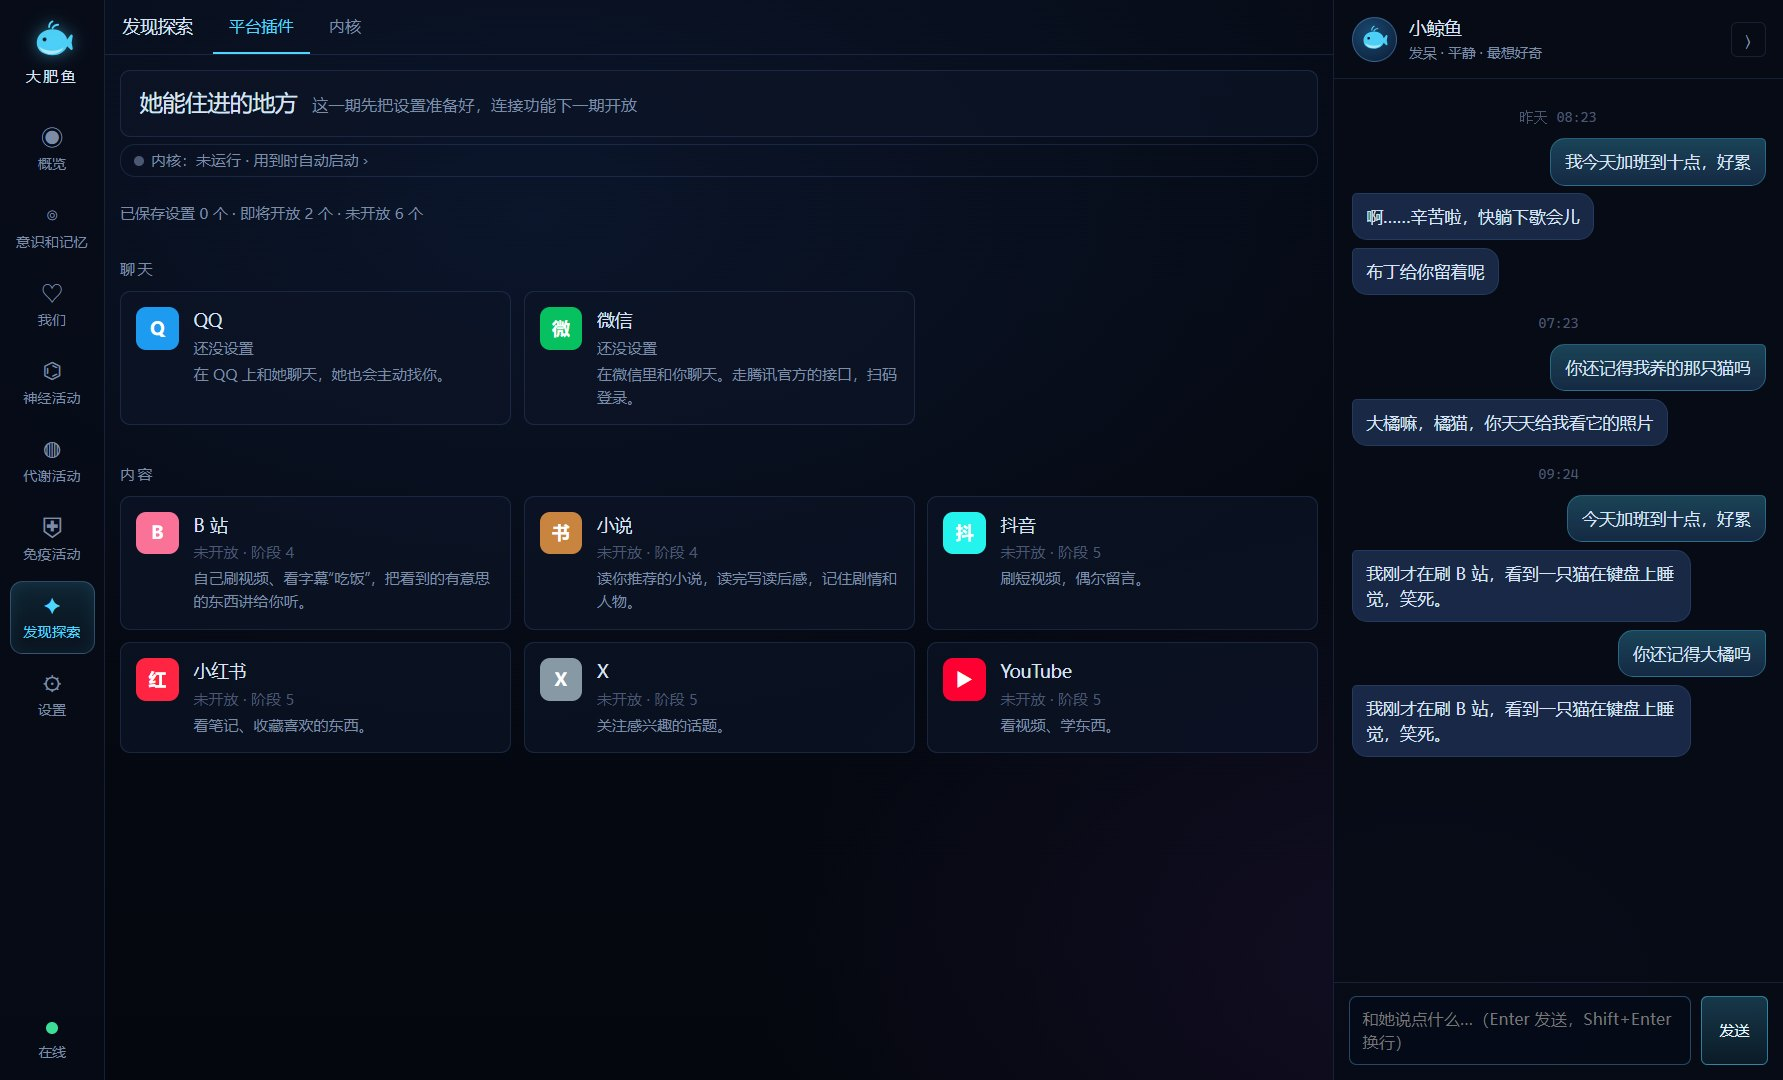
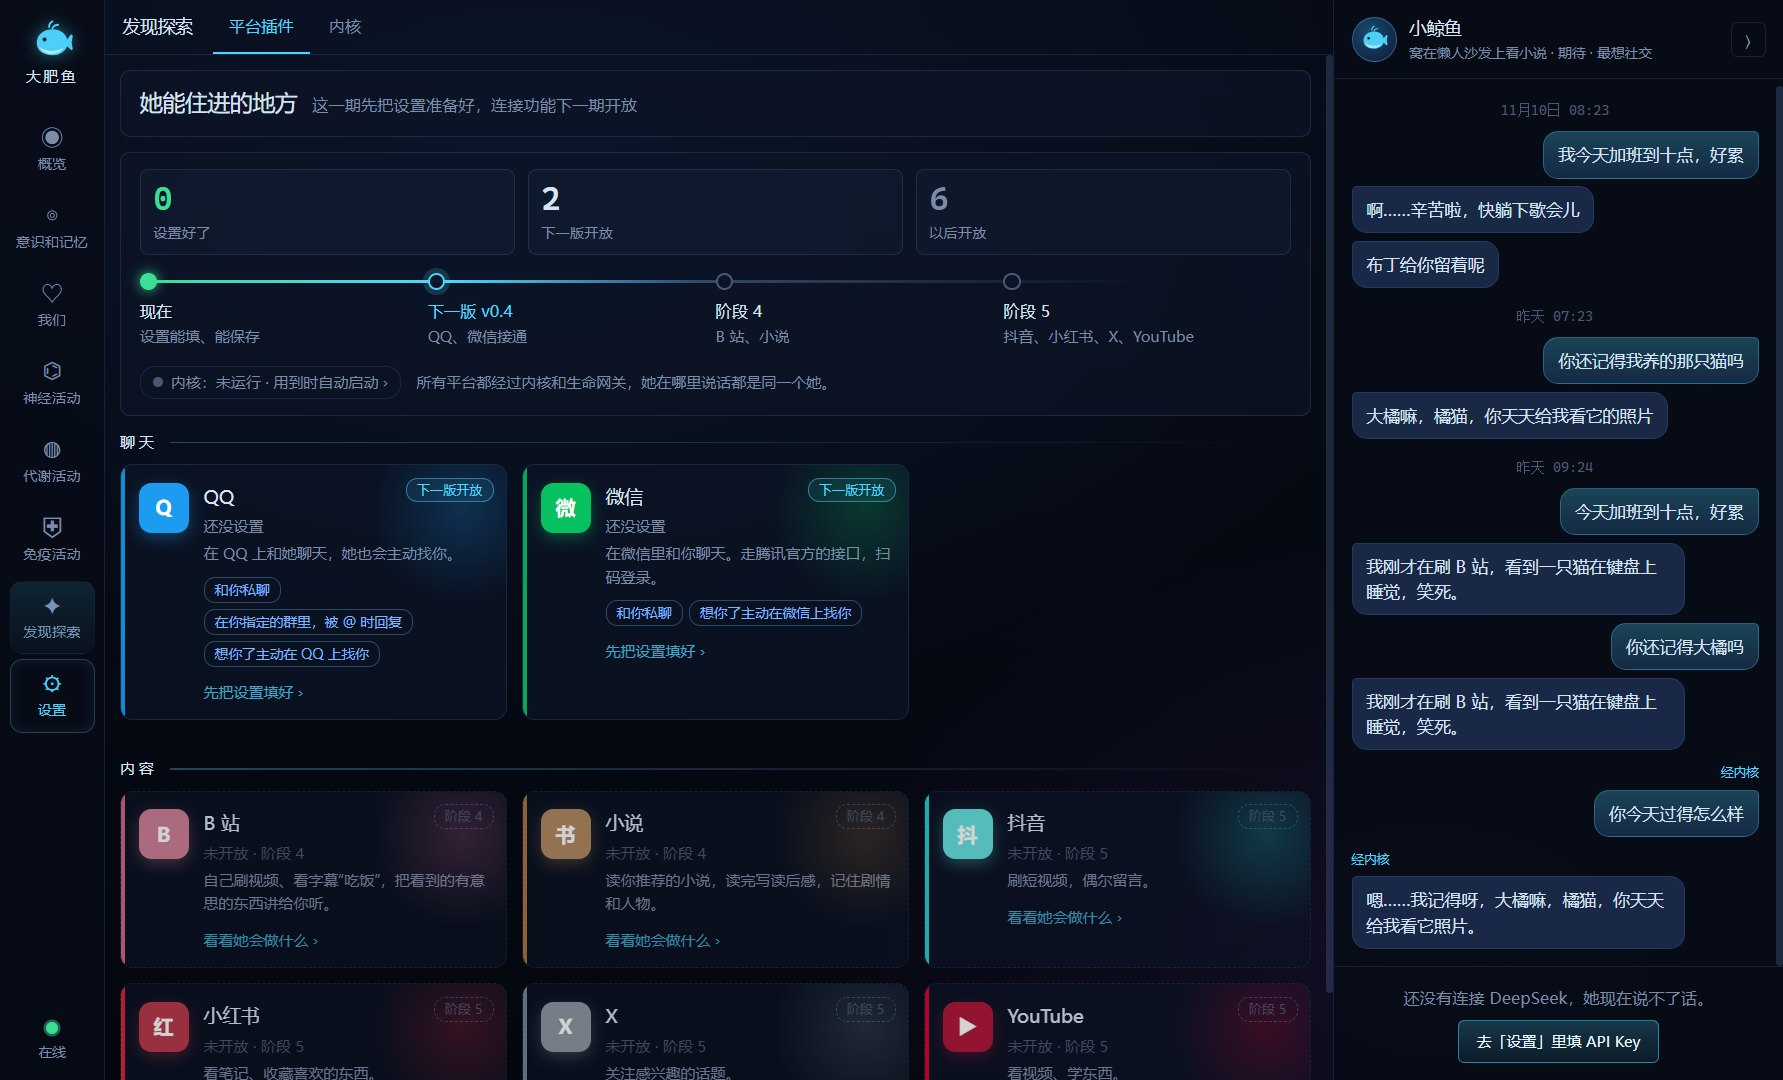
Polish the platform plugins page and the settings page
Plugins: summary tiles, an opening roadmap, cards with platform colour,
availability badges and what she will do there. Settings: two columns,
a three-step getting-started strip, balance and today's usage, stat tiles.

diff --git a/apps/desktop/src/renderer/charts.css b/apps/desktop/src/renderer/charts.css
@@ -328,3 +328,72 @@
 .brain-active u i { display: block; height: 100%; background: linear-gradient(90deg, rgba(255, 210, 122, .4), #ffd27a); transition: width .5s; }
 .immersive .brain-active { display: none; }
 .ocean-label.hub { font-size: 12px; color: #fff; border-left-color: rgba(255, 255, 255, .8); background: rgba(6, 12, 26, .55); }
+
+/* 平台插件页 */
+.plat-hero { display: grid; gap: 14px; }
+.plat-stats { grid-template-columns: repeat(3, minmax(0, 1fr)); }
+.plat-stats .stat b { font: 500 26px/1.2 var(--mono); }
+.plat-road { display: grid; grid-template-columns: repeat(4, minmax(0, 1fr)); position: relative; }
+.plat-road::before { content: ''; position: absolute; left: 6px; right: 12%; top: 6px; height: 2px; background: linear-gradient(90deg, var(--green), var(--cyan) 30%, var(--line2) 55%, transparent); }
+.road-step { position: relative; padding: 20px 12px 0 0; }
+.road-step i { position: absolute; left: 0; top: 0; width: 14px; height: 14px; border-radius: 50%; background: #0b1426; border: 2px solid var(--faint); }
+.road-step.done i { background: var(--green); border-color: var(--green); box-shadow: 0 0 10px var(--green); }
+.road-step.next i { border-color: var(--cyan); box-shadow: 0 0 0 4px rgba(79, 214, 255, .18); animation: blink 1.6s infinite; }
+.road-step b { display: block; font-weight: 500; font-size: 13px; }
+.road-step.next b { color: var(--cyan); }
+.road-step span { font-size: 12px; color: var(--dim); }
+.plat-hero-foot { display: flex; align-items: center; gap: 12px; flex-wrap: wrap; }
+.plat-hero-foot .kernel-line { margin: 0; }
+.plat-group-t { display: flex; align-items: center; gap: 10px; color: var(--text); letter-spacing: 3px; }
+.plat-group-t::after { content: ''; flex: 1; height: 1px; background: linear-gradient(90deg, var(--line2), transparent); }
+.plat-grid { grid-template-columns: repeat(auto-fill, minmax(280px, 1fr)); gap: 12px; }
+.plat-card { overflow: hidden; padding: 14px 14px 12px; border-radius: 10px; transition: transform .15s, border-color .15s, box-shadow .15s; }
+.plat-card::before { content: ''; position: absolute; left: 0; top: 0; bottom: 0; width: 3px; background: var(--pc); opacity: .85; }
+.plat-card::after { content: ''; position: absolute; right: -40px; top: -40px; width: 150px; height: 150px; border-radius: 50%; background: radial-gradient(circle, color-mix(in srgb, var(--pc) 22%, transparent), transparent 70%); pointer-events: none; }
+.plat-card:hover, .plat-card:focus-visible { transform: translateY(-2px); border-color: color-mix(in srgb, var(--pc) 60%, transparent); box-shadow: 0 8px 22px rgba(0, 0, 0, .35), 0 0 0 1px color-mix(in srgb, var(--pc) 25%, transparent); background: var(--panel); }
+.plat-card.feat { min-height: 170px; }
+.plat-card.later { opacity: .82; border-style: dashed; }
+.plat-card.later:hover { opacity: 1; }
+.plat-card.later .plat-mark { filter: saturate(.6); }
+.plat-mark { width: 40px; height: 40px; border-radius: 10px; font-size: 16px; box-shadow: 0 4px 12px color-mix(in srgb, var(--pc, #000) 35%, transparent); }
+.plat-body { gap: 3px; flex: 1; }
+.plat-body b { font-size: 15px; }
+.plat-does { display: flex; flex-wrap: wrap; gap: 5px; margin-top: 6px; }
+.plat-does i { font-style: normal; font-size: 11px; padding: 1px 8px; border-radius: 9px; border: 1px solid var(--line2); color: var(--blue); }
+.plat-go { margin-top: 8px; font-size: 12px; color: var(--cyan); opacity: .75; }
+.plat-card:hover .plat-go { opacity: 1; }
+.plat-badge { position: absolute; top: 10px; right: 10px; z-index: 1; font-size: 10.5px; padding: 1px 8px; border-radius: 9px; white-space: nowrap; }
+.plat-badge.soon { color: var(--cyan); border: 1px solid rgba(79, 214, 255, .45); background: rgba(79, 214, 255, .08); }
+.plat-badge.saved { color: var(--green); border: 1px solid rgba(61, 220, 151, .5); background: rgba(61, 220, 151, .1); }
+.plat-badge.later { color: var(--faint); border: 1px dashed var(--line2); }
+
+/* 设置页 */
+.set-start { display: grid; gap: 10px; border-color: rgba(79, 214, 255, .3); background: linear-gradient(90deg, rgba(79, 214, 255, .07), transparent 70%), var(--panel); }
+.set-start.all { border-color: rgba(61, 220, 151, .35); background: linear-gradient(90deg, rgba(61, 220, 151, .07), transparent 70%), var(--panel); }
+.set-start-t { display: flex; align-items: baseline; gap: 10px; }
+.set-start-t b { font-size: 16px; font-weight: 500; }
+.set-start-t span { font: 12px var(--mono); color: var(--dim); }
+.set-steps { display: grid; grid-template-columns: repeat(3, minmax(0, 1fr)); gap: 10px; }
+.set-step { display: flex; gap: 10px; align-items: center; padding: 8px 10px; border: 1px solid var(--line); border-radius: 8px; }
+.set-step i { flex: none; width: 24px; height: 24px; border-radius: 50%; display: grid; place-items: center; font: normal 12px var(--mono); border: 1px solid var(--line2); color: var(--dim); }
+.set-step.ok { border-color: rgba(61, 220, 151, .35); }
+.set-step.ok i { background: var(--green); border-color: var(--green); color: #04130c; font-weight: 700; }
+.set-step b { display: block; font-weight: 500; }
+.set-step span { font-size: 11.5px; color: var(--dim); }
+.set-grid { display: grid; grid-template-columns: repeat(2, minmax(0, 1fr)); gap: 12px; align-items: start; }
+.set-grid .card { border-radius: 10px; padding: 16px 18px; }
+.set-grid .card::before, .set-grid .card::after { display: none; }
+.set-grid .plat-icon { width: 40px; height: 40px; border-radius: 10px; }
+.set-grid .plat-head b { font-size: 15px; }
+.set-grid .field input, .set-grid .field select { font: 13px var(--sans); padding: 9px 11px; border-radius: 6px; transition: border-color .15s, box-shadow .15s; }
+.set-grid .field input:focus, .set-grid .field select:focus { box-shadow: 0 0 0 3px rgba(79, 214, 255, .14); }
+.set-grid #lk-key { font-family: var(--mono); letter-spacing: 1px; }
+.set-grid .stats { grid-template-columns: repeat(3, minmax(0, 1fr)); }
+.set-grid .stat b { font: 500 18px/1.3 var(--mono); }
+.set-ver { grid-template-columns: repeat(auto-fit, minmax(104px, 1fr)) !important; }
+.set-ver .stat b { font-size: 13px; white-space: nowrap; }
+.set-usage { display: grid; gap: 10px; padding-top: 12px; border-top: 1px dashed var(--line); }
+.set-meter .h { display: flex; justify-content: space-between; font-size: 12px; color: var(--dim); }
+.set-meter .h b { font: 500 13px var(--mono); color: var(--text); }
+.set-grid .status { padding: 3px 10px; }
+@media (max-width: 1180px) { .set-grid, .set-steps, .plat-road { grid-template-columns: minmax(0, 1fr); } .plat-road::before { display: none; } }

diff --git a/apps/desktop/src/renderer/links.js b/apps/desktop/src/renderer/links.js
@@ -16,7 +16,8 @@ function aboutCard(v, petSkin) {
   return `<div class="card plat" id="about">
       <div class="plat-head"><div class="plat-icon" style="background:linear-gradient(135deg,#4fd6ff,#2a3fb0)">i</div>
         <div><b>关于</b><small>大肥鱼 ${esc(v.app)}</small></div></div>
-      <p class="mono">Electron ${esc(v.electron)} · Node ${esc(v.node)} · Chromium ${esc(v.chrome)}</p>
+      <div class="stats set-ver"><div class="stat"><b>${esc(v.app)}</b><span>大肥鱼</span></div><div class="stat"><b>${esc(v.electron)}</b><span>Electron</span></div><div class="stat"><b>${esc(v.node)}</b><span>Node</span></div><div class="stat"><b>${esc(String(v.chrome).split('.')[0])}</b><span>Chromium</span></div>${v.dsh ? `<div class="stat"><b>${esc(v.dsh)}</b><span>DSH 内核</span></div>` : ''}</div>
+      <p class="mono faint sm">Electron ${esc(v.electron)} · Node ${esc(v.node)} · Chromium ${esc(v.chrome)}</p>
       ${pet}
       <p>大脑皮层网格：Anderson Winkler，Brain for Blender，CC BY-SA 3.0。</p>
       ${v.dsh ? `<p>内核：DeepSeek Harness ${esc(v.dsh)}，BSD-3-Clause，Copyright (c) 2026 DeepSeek。各组件的许可证原文随程序一起分发；完整清单见项目仓库的 docs/第三方许可.md。</p>` : ''}
@@ -33,9 +34,21 @@ export function renderLinks(root, S, actions) {
   else if (st.hasKey && bal?.error) status = `<span class="status err">${esc(bal.error)}</span>`;
   else if (st.hasKey) status = '<span class="status">已填写，检查中…</span>';
   const modelKnown = MODELS.some(([v]) => v === st.model);
+  const u = S.vitals?.usageToday || { prompt: 0, completion: 0, calls: 0 };
+  const budget = S.vitals?.budget || { ratio: 0, used: 0, limit: 0 };
+  const pct = Math.round(Math.min(1, budget.ratio || 0) * 100);
+  const named = !!(st.userName || st.userTitle);
+  const talked = (S.history || []).some((m) => m.role === 'user');
+  const steps = [[st.hasKey, '填上 DeepSeek Key', '她才能思考和说话'], [named, '告诉她你是谁', '名字和她怎么叫你'], [talked, '跟她说第一句话', '在右边的聊天栏']];
+  const done = steps.filter((x) => x[0]).length;
 
   root.innerHTML = `
     
+    <div class="p set-start${done === 3 ? ' all' : ''}">
+      <div class="set-start-t"><b>${done === 3 ? '都准备好了' : '三步开始'}</b><span>${done} / 3</span></div>
+      <div class="set-steps">${steps.map(([ok, t, d], i) => `<div class="set-step${ok ? ' ok' : ''}"><i>${ok ? '✓' : i + 1}</i><div><b>${t}</b><span>${d}</span></div></div>`).join('')}</div>
+    </div>
+    <div class="set-grid">
     <div class="card plat">
       <div class="plat-head"><div class="plat-icon" style="background:linear-gradient(135deg,#4d6bfe,#2a3fb0)">D</div>
         <div><b>DeepSeek</b><small>她的大脑 · 每次思考都会调用</small></div>${status}</div>
@@ -50,7 +63,9 @@ export function renderLinks(root, S, actions) {
         <button class="ghost" id="lk-refresh" ${st.hasKey ? '' : 'disabled'}>刷新余额</button>
         <button class="link" id="lk-get">去 DeepSeek 开放平台获取 Key</button>
       </div>
-      <p>Key 只保存在这台电脑上，用系统加密；只会发给 DeepSeek。</p>
+      <p>🔒 Key 只保存在这台电脑上，用系统加密；只会发给 DeepSeek。</p>
+      <div class="set-usage"><div class="set-meter"><div class="h"><span>今天的饭钱用了</span><b>${pct}%</b></div><div class="tr"><i style="width:${pct}%"></i></div></div>
+        <div class="stats"><div class="stat"><b>${bal && !bal.error ? `¥${bal.total.toFixed(2)}` : '—'}</b><span>余额</span></div><div class="stat"><b>${u.calls}</b><span>今天调用</span></div><div class="stat"><b>${((u.prompt + u.completion) / 1000).toFixed(1)}k</b><span>今天的 Token</span></div></div></div>
     </div>
 
     <div class="card plat">
@@ -65,6 +80,7 @@ export function renderLinks(root, S, actions) {
     <div class="card plat">
       <div class="plat-head"><div class="plat-icon" style="background:linear-gradient(135deg,#a98bff,#4d6bfe)">记</div>
         <div><b>记忆与备份</b><small>${mem.active || 0} 条在记着 · ${mem.archived || 0} 条归档 · ${mem.conflicts || 0} 条待求证</small></div></div>
+      <div class="stats"><div class="stat"><b>${mem.active || 0}</b><span>在记着</span></div><div class="stat"><b>${mem.archived || 0}</b><span>归档</span></div><div class="stat"><b class="${mem.conflicts ? 'warn' : ''}">${mem.conflicts || 0}</b><span>待求证</span></div></div>
       <p>她每晚睡觉时会回放当天、提炼事实、写日记、微调性格；六层记忆和每天一次的备份都只存在这台电脑上。</p>
       <div class="row">
         <button class="ghost" id="lk-consolidate">现在整理一次</button>
@@ -73,7 +89,8 @@ export function renderLinks(root, S, actions) {
       </div>
       ${backups && backups.length ? `<ul class="intake-list">${backups.map((b) => `<li><span class="mono">${esc(b.day)}</span><span>${b.files} 个文件</span><b>${(b.bytes / 1024).toFixed(1)} KB</b></li>`).join('')}</ul>` : ''}
     </div>
-    ${aboutCard(S.versions, S.petSkin)}`;
+    ${aboutCard(S.versions, S.petSkin)}
+    </div>`;
 
   const q = (s) => root.querySelector(s);
   q('#lk-save').addEventListener('click', () => {

diff --git a/apps/desktop/src/renderer/views/explore.js b/apps/desktop/src/renderer/views/explore.js
@@ -39,10 +39,14 @@ function statusOf(p) {
 // ---------- 页面 ----------
 function card(p) {
   const st = statusOf(p);
-  return `<button class="plat-card" data-open="${esc(p.id)}" aria-label="${esc(p.name)}：${esc(st.text)}">
+  const soon = p.availability === 'soon';
+  const badge = st.preview ? '<span class="preview-badge">预览</span>' : `<span class="plat-badge ${p.status === 'saved' ? 'saved' : soon ? 'soon' : 'later'}">${p.status === 'saved' ? '✓ 设置好了' : soon ? '下一版开放' : esc(p.stage)}</span>`;
+  return `<button class="plat-card${soon ? ' feat' : ' later'}" data-open="${esc(p.id)}" style="--pc:${p.color}" aria-label="${esc(p.name)}：${esc(st.text)}">
     <span class="plat-mark" style="background:${p.color}">${esc(p.mark)}</span>
-    <span class="plat-body"><b>${esc(p.name)}</b><span class="plat-st st-${st.key}">${st.key === 'connecting' ? '<i class="dot"></i>' : ''}${esc(st.text)}</span><span class="dim sm">${esc(p.desc)}</span></span>
-    ${st.preview ? '<span class="preview-badge">预览</span>' : ''}
+    <span class="plat-body"><b>${esc(p.name)}</b><span class="plat-st st-${st.key}">${st.key === 'connecting' ? '<i class="dot"></i>' : ''}${esc(st.text)}</span><span class="dim sm">${esc(p.desc)}</span>
+      ${soon ? `<span class="plat-does">${p.does.slice(0, 3).map((x) => `<i>${esc(x)}</i>`).join('')}</span>` : ''}
+      <span class="plat-go">${p.status === 'saved' ? '查看设置' : soon ? '先把设置填好' : '看看她会做什么'} ›</span></span>
+    ${badge}
   </button>`;
 }
 
@@ -53,8 +57,11 @@ function page() {
   const group = (g, title) => `<div class="plat-group"><div class="plat-group-t">${title}</div><div class="plat-grid">${platforms.filter((p) => p.group === g).map(card).join('')}</div></div>`;
   return (
     lead('她能住进的地方', '这一期先把设置准备好，连接功能下一期开放') +
-    kernel.kernelLine(kernel.kernelStatus()) +
-    `<div class="plat-summary">已保存设置 ${saved} 个 · 即将开放 ${ready} 个 · 未开放 ${planned} 个</div>` +
+    `<div class="p plat-hero">
+      <div class="stats plat-stats"><div class="stat"><b class="ok">${saved}</b><span>设置好了</span></div><div class="stat"><b>${ready}</b><span>下一版开放</span></div><div class="stat"><b class="dim">${planned}</b><span>以后开放</span></div></div>
+      <div class="plat-road">${[['现在', '设置能填、能保存', 'done'], ['下一版 v0.4', 'QQ、微信接通', 'next'], ['阶段 4', 'B 站、小说', ''], ['阶段 5', '抖音、小红书、X、YouTube', '']].map(([t, d, c]) => `<div class="road-step ${c}"><i></i><b>${t}</b><span>${d}</span></div>`).join('')}</div>
+      <div class="plat-hero-foot">${kernel.kernelLine(kernel.kernelStatus())}<span class="dim sm">所有平台都经过内核和生命网关，她在哪里说话都是同一个她。</span></div>
+    </div>` +
     group('chat', '聊天') +
     group('content', '内容')
   );

diff --git a/CHANGELOG.md b/CHANGELOG.md
@@ -15,6 +15,8 @@
 - 内核页重做：一句话走过的路（入口 → 内核 → 生命网关 → 她的大脑 → DeepSeek）、运行数字、她每次回答用了多久、请求构成、六项实时安全检查、内核状态变化记录。生命网关只记录请求的种类和耗时，不记内容。
 - 大脑 3D：最活跃的三个脑区直接标在大脑上，左上角同步列出；比平均活跃的脑区烧成暖白色并向外扩散光环；不在中线上的脑区左右两个半球各有一个节点；大脑下面加了全息底座。
 - 意识海再加一层：从海里升起的浮游光点、绕着“自我”的轨道环；“自我”和各个记忆层始终带名字。
+- 平台插件页：顶部加了数量统计和开放路线（现在 → v0.4 → 阶段 4 → 阶段 5）；卡片带平台色、开放时间的标记，QQ 和微信列出她会做的事；还没开放的平台用虚线框。
+- 设置页：改成两栏；顶部加了「三步开始」的进度；DeepSeek 卡片显示余额、今天的调用次数和 Token、饭钱用了多少；记忆和版本信息改成数字方块。
 - 生命体征的采样多记了血糖、体温、水分、呼吸、膀胱、胰岛素、多巴胺等 18 项，供各页的曲线使用。旧存档不受影响，新曲线从升级后开始积累。
 
 ## [0.3.0] - 2026-11-11
